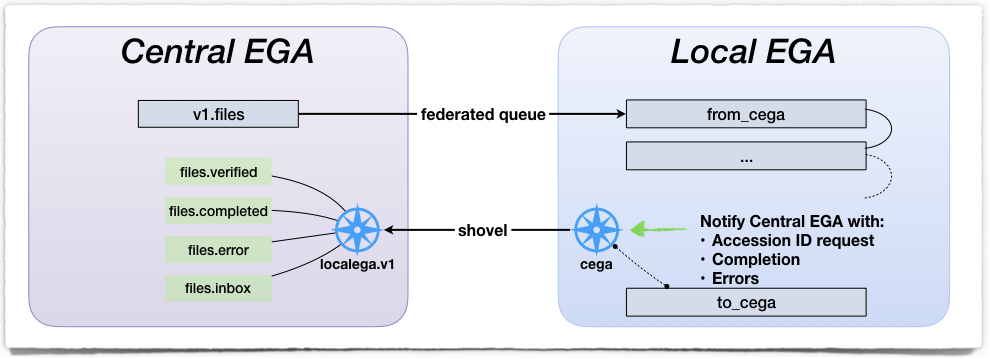
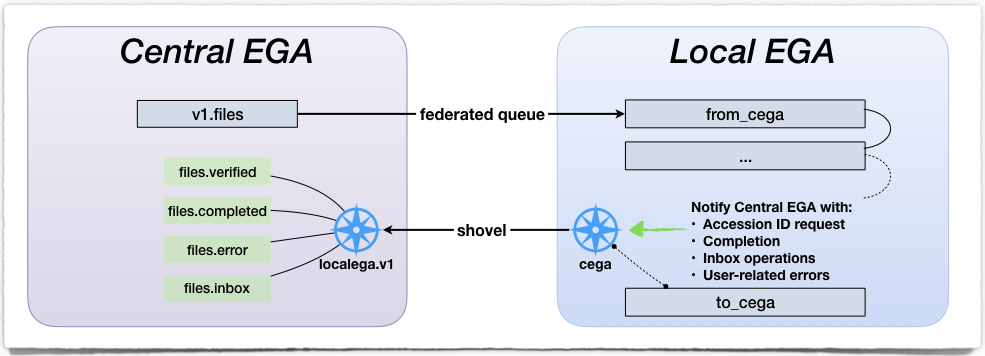
About the message formats

diff --git a/docs/conf.py b/docs/conf.py
@@ -8,7 +8,7 @@ from recommonmark.parser import CommonMarkParser
 
 # Get the project root dir, which is the parent dir of this
 # sys.path.insert(0, os.path.dirname(os.getcwd()))
-sys.path.insert(0, os.path.abspath('..'))
+sys.path.insert(0, os.path.abspath('../ingestion'))
 # print('PYTHONPATH =', sys.path)
 from lega import __version__
 

diff --git a/docs/amqp.rst b/docs/amqp.rst
@@ -1,7 +1,7 @@
 .. _cega_lega:
 
-Connection CEGA |connect| LEGA
-==============================
+Connection to Central EGA
+=========================
 
 All Local EGA instances are connected to Central EGA using `AMQP, the
 advanced message queueing protocol <http://www.amqp.org/>`_, that
@@ -19,8 +19,8 @@ called *central broker*. The other LocalEGA components are connected
 to their respective local broker.
 
 .. note:: We pinned the RabbitMQ version to ``3.7.8``, so far, until
-          both CegaMQ and LegaMQ can be upgraded simultaneously to the
-          latest version.
+          both the central broker and the local brokers can be
+          upgraded simultaneously to the latest version.
 
 
 For each LocalEGA instance, the central broker configures a ``vhost``,
@@ -69,91 +69,127 @@ routing keys:
 * ``files.error`` for user-related errors
 * ``files.inbox`` for inbox file operations
 
-The shovel is backed by a ``to_cega`` is case *CegaMQ* is temporarily
-unavailable. This is similar to a (reverse) federated queue.
+The shovel is backed by a ``to_cega`` is case the central broker is
+temporarily unavailable. This is similar to a (reverse) federated
+queue.
 
 
-Message interface (API)
-=======================
+Message interface (API) CEGA |connect| LEGA
+============================================
 
 It is necessary to agree on the format of the messages exchanged
 between Central EGA and any Local EGAs. All messages are
-JSON-formatted.
+JSON-formatted. The `JSON schemas to described the message formats
+<https://github.com/EGA-archive/LocalEGA/tree/docs/ingestion/schemas>`_
+can be found in the repository.
 
-
-Inbox to Central EGA
---------------------
-
-The messages sent by the inbox hooks capture when a file is (re)uploaded, renamed or removed. 
-
-For a file upload:
-
-.. code::
-
-		{
-                                 "user": <str>,
-                             "filepath": <str>,
-                            "operation": "upload",
-                             "filesize": <num>,
-                   "file_last_modified": <num>, // a UNIX timestamp
-                  "encrypted_checksums": [{ "type": <str>, "value": <checksum as HEX> },
-                                          { "type": <str>, "value": <checksum as HEX> },
-					  ...
-					  ]
-		}
-
-The checksum algorithm type is "md5", or "sha256".
-"sha256" is preferred.
-
-For a file removal:
-
-.. code::
-
-		{
-                                 "user": <str>,
-                             "filepath": <str>,
-                            "operation": "remove",
-		}
-
-For a file renaming:
-
-.. code::
-
-		{
-                                 "user": <str>,
-                             "filepath": <str>,
-                              "oldpath": <str>,
-                            "operation": "rename",
-		}
-
-The message headers include:
+When the brokers exchange messages, the message headers have the following properties:
 
 - a content type: ``application/json``
 - delivery mode: 2 (for persistence)
-- and a correlation id.
+- and a **required** correlation id.
 
 The correlation id is a uuid of 37 characters, generated by `uuid_generate <https://linux.die.net/man/3/uuid_generate>`_.
 
 
-From Central EGA to Local EGA
------------------------------
+Central EGA |cegatolega| Local EGA
+----------------------------------
 
-In order to distinguish message, Central EGA adds a field named
-``type`` to all outgoing messages. There are 4 types of messages so
-far:
+Central EGA uses a unique upstream queue, to minimize the number of
+connection sockets. In order to distinguish message, Central EGA adds
+a field named ``type`` to all outgoing messages. There are 5 types of
+messages so far:
 
 * ``type=ingest``: an ingestion trigger
+* ``type=cancel``: an ingestion cancellation
 * ``type=accession``: contains an accession id
 * ``type=mapping``: contains a dataset to accession id mapping (they
-  are known a the metadata release stage or when permissions are
-  granted by a DAC
+  are known at the metadata release stage or when permissions are granted by a DAC
 * ``type=heartbeat``: A mean to check if the Local EGA instance is "alive"
 
-From Local EGA to Central EGA
------------------------------
+Refer to the complete JSON Schemas for `the ingestion trigger message
+format
+<https://github.com/EGA-archive/LocalEGA/tree/master/ingestion/schemas/ingestion-trigger.json>`_
+and `the Accession ID message format
+<https://github.com/EGA-archive/LocalEGA/tree/master/ingestion/schemas/ingestion-accession.json>`_.
 
-.. note:: To be finished.
+For example, an ingestion trigger would have the following format:
+
+.. code::
+
+		{
+                                 "type": "ingest",
+                                 "user": "john",
+                             "filepath": "/inbox/user/dir1/file.txt.c4gh",
+                  "encrypted_checksums": [ { "type": "sha256",
+                                             "value": "82E4e60e7beb3db2e06...f28c4c942703dabb6d6" }]
+		}
+
+and an accession id message from Central EGA would be:
+
+.. code::
+
+		{
+                                 "type": "accession",
+                                 "user": "john",
+                             "filepath": "/inbox/user/dir1/file.txt.c4gh",
+                         "accession_id": "EGAF00000123456",
+                  "decrypted_checksums": [ { "type": "sha256",
+		                             "value": "7853c53a03ccfc38683e...533e68ab37b5b790074" },
+                                           { "type": "md5",
+					     "value": "ee25789673d8711563d5fcb7234f9a68" }]
+		}
+
+
+Central EGA |legatocega| Local EGA
+----------------------------------
+
+Messages from Local EGA to Central EGA are used in the following cases:
+
+* Requesting an Accession ID
+* Notifying of the completion of an ingestion
+* Inbox operations
+* User-related Errors
+
+The message must contain the ``user`` or ``filepath``, and you can
+refer to the `JSON Schemas for ingestion messages
+<https://github.com/EGA-archive/LocalEGA/tree/master/ingestion/schemas/ingestion-to-cega.json>`_. Valid
+checksum algorithms are "md5" and "sha256", where "sha256" is
+preferred. For example, a request for an Accession ID could be:
+
+.. code::
+
+		{
+                                 "user": "john",
+                             "filepath": "/inbox/user/dir1/file.txt.c4gh",
+                  "decrypted_checksums": [ { "type": "sha256",
+		                             "value": "7853c53a03ccfc38683e...533e68ab37b5b790074" },
+                                           { "type": "md5",
+					     "value": "ee25789673d8711563d5fcb7234f9a68" }]
+		}
+
+.. note:: When requesting an Accession ID, the md5 decrypted_checksums field is, for the moment, mandatory.
+
+The messages sent by the inbox hooks capture operation of the files,
+be it a (re)upload, a rename or a removal.  They must contain the
+fields: ``user``, ``filepath``, ``operation``, where the value is
+either ``upload``, ``rename`` or ``remove``.  In the case of a file
+renaming, the ``oldpath`` must be added to the required fields. For
+example, a file upload message could be:
+
+.. code::
+
+		{
+                                 "user": "john",
+                             "filepath": "/inbox/user/dir1/file.txt.c4gh",
+                            "operation": "upload"
+		}
+
+Optional fields can be added, such as ``filesize``, or
+``encrypted_checksums``.
 
 
 .. |connect| unicode:: U+21cc .. <->
+.. |cegatolega| unicode:: U+21C0 .. ->
+.. |legatocega| unicode:: U+21BD .. <-
 .. _RabbitMQ: http://www.rabbitmq.com
